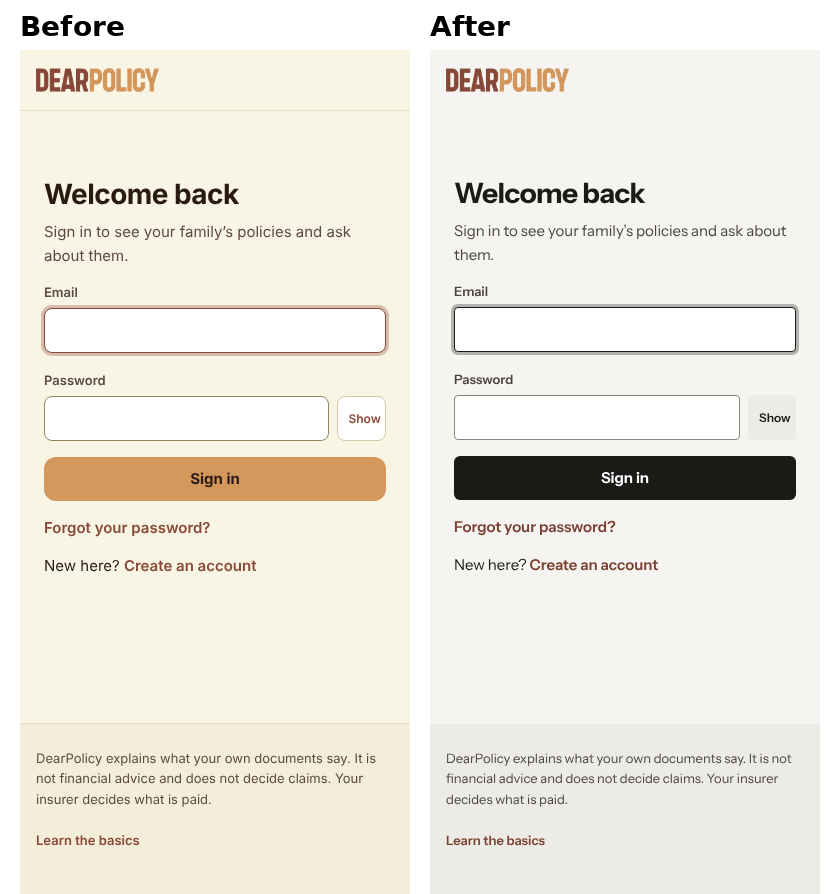
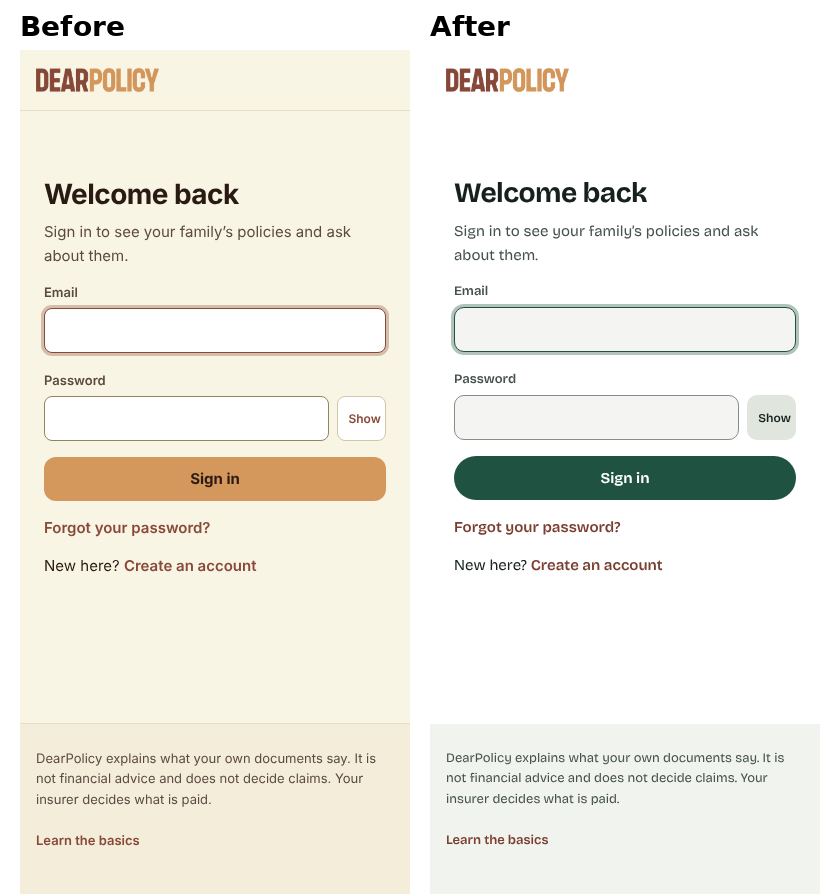
Switch the restyle to family colours (DC's choice) with Bricolage Grotesque
White page, soft grey cards with large radii, pill buttons, a top menu bar
on computers, and one identity colour per family member (data-person by
household order; never green, red, amber or slate, which stay status).
Status roles and contrast unchanged; brand tokens test passes. Look only.

Claude-Session: https://claude.ai/code/session_01JsrpoynzY3PNzgXCi8nV7J

diff --git a/app/globals.css b/app/globals.css
@@ -17,38 +17,38 @@
    ========================================================================== */
 :root {
   color-scheme: light;
-  --bg: #f5f4f0;              /* brand off-white, from the logo file */
-  --bg-2: #ecebe5;            /* sidebar / recessed panels */
-  --surface: #ffffff;         /* cards, rows, inputs */
-  --surface-2: #f3f2ee;       /* quiet in-card blocks */
-  --ink: #1c1a17;
-  --ink-2: #4a463f;
-  --muted: #625e56;           /* 5.6:1 on --bg */
-  --line: #e4e1d9;
+  --bg: #ffffff;              /* brand off-white, from the logo file */
+  --bg-2: #f1f3ef;            /* sidebar / recessed panels */
+  --surface: #f4f5f2;         /* cards, rows, inputs */
+  --surface-2: #eceee9;       /* quiet in-card blocks */
+  --ink: #16211c;
+  --ink-2: #45514b;
+  --muted: #58625c;           /* 5.6:1 on --bg */
+  --line: #e3e6e1;
   --edge: transparent;     /* card edges: surfaces are told apart by tone, not lines */
-  --line-strong: #d2cec4;
-  --input-line: #8a857a;      /* 3.4:1 on --bg */
+  --line-strong: #cfd4cd;
+  --input-line: #858e88;      /* 3.4:1 on --bg */
 
-  --brand: #1c1a17;
+  --brand: #1f5240;
   --brand-ink: #7a3f30;       /* brand as text, 6.3:1 on --bg */
-  --brand-tint: #ecebe5;
-  --brand-tint-2: #dfdcd3;
+  --brand-tint: #ebeee9;
+  --brand-tint-2: #e0e5de;
   --on-brand: #ffffff;        /* text on a --brand fill, 6.9:1 */
   --logo-plate: #f9f5e4;      /* the logo's own ground, kept behind it in dark */
 
-  --accent: #1c1a17;
-  --accent-hover: #3a3631;
-  --accent-active: #000000;
+  --accent: #1f5240;
+  --accent-hover: #18443a;
+  --accent-active: #12362e;
   --accent-ink: #ffffff;      /* text on an --accent fill, 6.7:1 */
-  --money: #1c1a17;           /* accent as text, 6.3:1 on --bg */
-  --accent-tint: #efede7;
+  --money: #16211c;           /* accent as text, 6.3:1 on --bg */
+  --accent-tint: #ebeee9;
 
   --good: #2f7a4f;
   --good-text: #276b44;
   --good-tint: #e4f1e8;
   --good-line: #b9d8c4;
 
-  --warn: #b98a1c;
+  --warn: #a67a12;
   --warn-text: #7a5600;
   --warn-tint: #fff3cf;
   --warn-line: #e8cf7a;
@@ -66,37 +66,50 @@
   --info-tint: var(--surface-2);
   --info-line: var(--line-strong);
 
-  --scrim: rgba(20, 18, 16, .28);
+  --scrim: rgba(14, 22, 18, .28);
 
-  --shadow-float: 0 4px 12px rgba(28, 26, 23, .10), 0 1px 2px rgba(28, 26, 23, .06);
-  --focus: 0 0 0 3px rgba(28, 26, 23, .30);
+  --shadow-float: 0 4px 12px rgba(22, 33, 28, .10), 0 1px 2px rgba(22, 33, 28, .06);
+  --focus: 0 0 0 3px rgba(31, 82, 64, .35);
 
-  --r-sm: 4px; --r-md: 6px; --r-lg: 8px;
+  --r-sm: 10px; --r-md: 14px; --r-lg: 20px;
   --fs-xs: 12px; --fs-sm: 13px; --fs-md: 15px; --fs-lg: 17px; --fs-xl: 22px; --fs-2xl: 28px; --fs-3xl: 36px;
   --t-hover: 120ms; --t-state: 240ms; --t-move: 340ms; --ease: cubic-bezier(.2, .7, .2, 1);
   --nav-h: 60px;
   --font: var(--font-face), -apple-system, BlinkMacSystemFont, "Segoe UI", Roboto, system-ui, "PingFang SC", "Hiragino Sans GB", "Microsoft YaHei", "Noto Sans CJK SC", "Noto Sans SC", sans-serif;
+
+  /* Family members: one identity hue each, by their place in the household.
+     Never green, red, amber or slate: those colours are status. */
+  --person-1: #0d3e75; --person-1-tint: #e3eefa;   /* blue */
+  --person-2: #6a1f63; --person-2-tint: #f6e6f3;   /* plum */
+  --person-3: #0b5560; --person-3-tint: #ddf1f2;   /* teal */
+  --person-4: #3a3590; --person-4-tint: #e9e8fb;   /* indigo */
+
 }
 :root[data-theme="dark"] {
     color-scheme: dark;
-    --bg: #161513; --bg-2: #121110; --surface: #201e1b; --surface-2: #262420;
-    --ink: #f1efe9; --ink-2: #cfcac0; --muted: #a39e94;
-    --line: #302d29; --line-strong: #3d3a35; --input-line: #858076;
-    --brand-ink: #e0a898; --brand-tint: #2a2824; --brand-tint-2: #34312c;
-    --money: #f1efe9; --accent-tint: #2a2824;
+    --bg: #121614; --bg-2: #0e1210; --surface: #1b211e; --surface-2: #222924;
+    --ink: #eef2ee; --ink-2: #c4ccc6; --muted: #9aa59e;
+    --line: #2b332e; --line-strong: #38423c; --input-line: #7f8a83;
+    --brand-ink: #e0a898; --brand-tint: #232b26; --brand-tint-2: #2c3630;
+    --money: #eef2ee; --accent-tint: #232b26;
     --good: #7fc49a; --good-text: #8fd0a8; --good-tint: #1f2f26; --good-line: #33503f;
     --warn: #e8b85a; --warn-text: #ecc46e; --warn-tint: #332b18; --warn-line: #5a4a24;
     --critical: #f08b7d; --critical-tint: #3a211e; --critical-line: #5c332d;
     --unresolved: #93a7bb; --unresolved-text: #b7c7d7; --unresolved-tint: #1f262d; --unresolved-line: #6a7d90;
     --scrim: rgba(0, 0, 0, .5);
     --shadow-float: 0 4px 14px rgba(0, 0, 0, .45), 0 1px 2px rgba(0, 0, 0, .3);
-    --focus: 0 0 0 3px rgba(241, 239, 233, .40);
-    --brand: #f1efe9;
-    --on-brand: #161513;
-    --accent: #f1efe9;
-    --accent-hover: #ffffff;
-    --accent-active: #d9d6cf;
-    --accent-ink: #161513;
+    --focus: 0 0 0 3px rgba(143, 208, 176, .45);
+    --brand: #8fd0b0;
+    --on-brand: #0e1210;
+    --accent: #8fd0b0;
+    --accent-hover: #a6dcc1;
+    --accent-active: #7cc2a0;
+    --accent-ink: #0e1210;
+    --person-1: #a9c9f0; --person-1-tint: #182638;
+    --person-2: #e3a9da; --person-2-tint: #321a2f;
+    --person-3: #8fd3da; --person-3-tint: #11292c;
+    --person-4: #bcb8f3; --person-4-tint: #221f3d;
+
 }
 :root[data-theme="dark"] .brand-logo, :root[data-theme="dark"] .big-mark { background: var(--logo-plate); padding: 6px 10px; border-radius: var(--r-sm); }
 
@@ -172,16 +185,16 @@ table { font-variant-numeric: tabular-nums; }
 /* --------------------------------------------------------------------------
    Controls
    -------------------------------------------------------------------------- */
-.button { border: 1px solid transparent; border-radius: var(--r-md); padding: 10px 16px; font-weight: 650; font-size: var(--fs-md); display: inline-flex; align-items: center; justify-content: center; gap: 8px; min-height: 44px; transition: background var(--t-hover) var(--ease), border-color var(--t-hover) var(--ease); }
+.button { border: 1px solid transparent; border-radius: 999px; padding: 10px 16px; font-weight: 650; font-size: var(--fs-md); display: inline-flex; align-items: center; justify-content: center; gap: 8px; min-height: 44px; transition: background var(--t-hover) var(--ease), border-color var(--t-hover) var(--ease); }
 .button.primary { background: var(--accent); color: var(--accent-ink); }
 .button.primary:hover { background: var(--accent-hover); }
 .button.primary:active { background: var(--accent-active); }
-.button.secondary { background: var(--bg-2); color: var(--ink); }
+.button.secondary { background: var(--brand-tint); color: var(--ink); }
 .button.secondary:hover { background: var(--brand-tint-2); }
 .button.compact { padding: 8px 14px; min-height: 40px; white-space: nowrap; }
 .button:disabled { opacity: .5; cursor: not-allowed; }
-.mini-button { border: 1px solid transparent; background: var(--bg-2); color: var(--ink); border-radius: var(--r-sm); padding: 6px 10px; min-height: 32px; font-size: var(--fs-xs); font-weight: 600; transition: border-color var(--t-hover) var(--ease), background var(--t-hover) var(--ease); }
-.mini-button:hover { background: var(--brand-tint-2); }
+.mini-button { border: 1px solid transparent; background: var(--brand-tint-2); color: var(--ink); border-radius: var(--r-sm); padding: 6px 10px; min-height: 32px; font-size: var(--fs-xs); font-weight: 600; transition: border-color var(--t-hover) var(--ease), background var(--t-hover) var(--ease); }
+.mini-button:hover { background: var(--line-strong); }
 a.mini-button { display: inline-flex; align-items: center; text-decoration: none; }
 .mini-button:disabled { opacity: .5; cursor: default; }
 .mini-button.danger { color: var(--critical); }
@@ -227,11 +240,11 @@ a.mini-button { display: inline-flex; align-items: center; text-decoration: none
 .member-strip-title strong { font-size: var(--fs-sm); }
 .member-strip-title span { color: var(--muted); font-size: var(--fs-xs); }
 .member-pills { display: flex; gap: 8px; overflow-x: auto; padding: 2px; }
-.member-pill { white-space: nowrap; border: 1px solid transparent; background: var(--bg-2); border-radius: var(--r-md); padding: 8px 12px; min-height: 44px; display: flex; align-items: center; gap: 8px; color: var(--ink); transition: border-color var(--t-hover) var(--ease), background var(--t-hover) var(--ease); }
+.member-pill { white-space: nowrap; border: 1px solid transparent; background: var(--surface-2); border-radius: var(--r-md); padding: 8px 12px; min-height: 44px; display: flex; align-items: center; gap: 8px; color: var(--ink); transition: border-color var(--t-hover) var(--ease), background var(--t-hover) var(--ease); }
 .member-pill:hover { background: var(--brand-tint-2); }
-.member-pill.active { border-color: var(--brand); background: var(--surface); }
+.member-pill.active { border-color: var(--p, var(--brand)); background: var(--p-tint, var(--surface-2)); color: var(--p, var(--ink)); }
 .member-pill.add { color: var(--brand-ink); font-weight: 650; }
-.member-dot { width: 28px; height: 28px; display: grid; place-items: center; border-radius: 50%; background: var(--brand-tint); color: var(--brand-ink); font-weight: 650; font-size: var(--fs-xs); }
+.member-dot { width: 28px; height: 28px; display: grid; place-items: center; border-radius: 50%; background: var(--p, var(--brand-tint)); color: var(--on-p, var(--brand-ink)); font-weight: 650; font-size: var(--fs-xs); }
 .member-pill span:last-child { display: grid; text-align: left; }
 .member-pill b { font-size: var(--fs-sm); }
 .member-pill small { font-size: var(--fs-xs); color: var(--muted); text-transform: capitalize; }
@@ -245,7 +258,7 @@ a.mini-button { display: inline-flex; align-items: center; text-decoration: none
 .family-grid { display: grid; grid-template-columns: repeat(2, minmax(0, 1fr)); gap: 12px; }
 .family-card { background: var(--surface); border: 1px solid var(--edge); border-radius: var(--r-lg); padding: 16px; display: flex; align-items: center; gap: 14px; transition: border-color var(--t-hover) var(--ease); }
 .family-card:hover { border-color: var(--brand-ink); }
-.avatar { width: 44px; height: 44px; border-radius: 50%; background: var(--brand-tint); color: var(--brand-ink); display: grid; place-items: center; font-weight: 650; font-size: var(--fs-lg); flex: none; }
+.avatar { width: 44px; height: 44px; border-radius: 50%; background: var(--p, var(--brand-tint)); color: var(--on-p, var(--brand-ink)); display: grid; place-items: center; font-weight: 650; font-size: var(--fs-lg); flex: none; }
 .avatar.small { width: 36px; height: 36px; font-size: var(--fs-md); }
 .family-copy { display: grid; gap: 2px; }
 .family-copy strong { font-size: var(--fs-md); }
@@ -482,7 +495,7 @@ a.mini-button { display: inline-flex; align-items: center; text-decoration: none
 .auto-context { width: 260px; border: 1px solid var(--edge); background: var(--surface); border-radius: var(--r-md); padding: 10px 12px; display: grid; gap: 3px; }
 .auto-context strong { font-size: var(--fs-xs); color: var(--brand-ink); }
 .auto-context span { font-size: var(--fs-xs); line-height: 1.4; color: var(--muted); }
-.chat-window { margin-top: 20px; min-height: 420px; background: var(--surface); border: 1px solid var(--edge); border-radius: var(--r-lg); padding: 24px; display: grid; align-content: start; gap: 18px; }
+.chat-window { margin-top: 20px; min-height: 420px; background: transparent; border: 1px solid var(--edge); border-radius: var(--r-lg); padding: 8px 0 24px; display: grid; align-content: start; gap: 18px; }
 .chat-empty { max-width: 640px; margin: 32px auto 16px; text-align: center; display: grid; justify-items: center; gap: 12px; }
 .big-mark { height: 30px; width: auto; }
 .chat-empty > p { color: var(--ink-2); font-size: var(--fs-md); line-height: 1.55; margin: 0; }
@@ -493,7 +506,7 @@ a.mini-button { display: inline-flex; align-items: center; text-decoration: none
 .message.user { justify-self: end; max-width: 70%; }
 .message-label { font-size: var(--fs-xs); font-weight: 650; color: var(--muted); }
 .message.user .message-label { text-align: right; }
-.message-body { background: var(--surface-2); border: 1px solid var(--edge); border-radius: var(--r-lg); padding: 14px 16px; font-size: var(--fs-md); line-height: 1.6; overflow-wrap: anywhere; }
+.message-body { background: var(--surface); border: 1px solid var(--edge); border-radius: var(--r-lg); padding: 14px 16px; font-size: var(--fs-md); line-height: 1.6; overflow-wrap: anywhere; }
 .message.user .message-body { background: var(--brand); color: var(--on-brand); border-color: var(--brand); }
 .message-body p { margin-bottom: 10px; }
 .message-body p:last-child { margin-bottom: 0; }
@@ -1579,3 +1592,30 @@ h1 .title-icon .icon { width: 24px; height: 24px; }
 /* Delete is quiet until it is about to act: muted, at the end of the row; red on hover, focus and Confirm. */
 .document-meta .mini-button.danger { margin-left: auto; color: var(--muted); }
 .document-meta .mini-button.danger:hover, .document-meta .mini-button.danger:focus-visible, .document-meta .mini-button.danger.armed { border-color: var(--critical-line); color: var(--critical); }
+
+/* --------------------------------------------------------------------------
+   Family colours (docs/brand.md "Look"). data-person is a member's place in
+   the household (0-3, repeating); it sets --p (ink), --p-tint and --on-p.
+   -------------------------------------------------------------------------- */
+[data-person="0"] { --p: var(--person-1); --p-tint: var(--person-1-tint); }
+[data-person="1"] { --p: var(--person-2); --p-tint: var(--person-2-tint); }
+[data-person="2"] { --p: var(--person-3); --p-tint: var(--person-3-tint); }
+[data-person="3"] { --p: var(--person-4); --p-tint: var(--person-4-tint); }
+[data-person] { --on-p: var(--bg); }
+.profile-card[data-person] { background: var(--p-tint); }
+.profile-card[data-person] .profile-summary strong { color: var(--p); }
+
+/* Computer: the menu is a top bar; phones keep the bottom bar. */
+@media (min-width: 901px) {
+  .app-shell { display: block; }
+  .sidebar { position: sticky; top: 0; z-index: 40; height: auto; overflow: visible; flex-direction: row; align-items: center; gap: 24px; padding: 14px clamp(24px, 3vw, 48px); background: var(--bg); }
+  .brand { padding: 0; }
+  .nav { display: flex; gap: 2px; }
+  .nav .eyebrow { display: none; }
+  .nav-item { min-height: 40px; padding: 8px 14px; border-radius: 999px; font-weight: 600; white-space: nowrap; }
+  .nav-item.active { background: var(--bg-2); }
+  .nav-icon { display: none; }
+  .sidebar-footer { margin-top: 0; margin-left: auto; padding: 0; display: flex; align-items: center; gap: 12px; }
+  .sidebar-footer [data-tip]::after { left: auto; right: 0; top: calc(100% + 8px); bottom: auto; transform: none; }
+}
+@media (min-width: 901px) and (max-width: 1240px) { .sidebar .privacy-pill { display: none; } .nav-item { padding: 8px 10px; } }

diff --git a/app/page.tsx b/app/page.tsx
@@ -83,7 +83,7 @@ export default function DashboardPage(){
   :<header className="page-header portfolio-hero"><div><h1>Know what your family has. Know what to do next.</h1><p className="lead">Upload your family&rsquo;s insurance documents. DearPolicy shows who is covered for what, and answers your questions with the page each answer comes from.</p></div><div className="hero-actions"><Link href="/policies" className="button secondary"><Icon name="upload"/>Upload documents</Link><Link href="/chat" className="button primary"><Icon name="ask"/>Ask DearPolicy</Link></div></header>}
   {returning&&<HomeAttention memberId={active?.id} todo={data?.reminders?.length??0}/>}
   {data?.error&&<div className="alert error" role="alert"><strong>DearPolicy couldn&rsquo;t load your family&rsquo;s cover just now.</strong><small>Your documents are safe. Please refresh the page in a moment.</small></div>}
-  <section className="member-strip"><div className="member-strip-title">{data?.family?.length?<><strong><Icon name="family"/> Viewing</strong></>:<><strong>Your family</strong><span>Add the people your policies cover</span></>}</div><div className="member-pills">{data?.family?.map(m=><button key={m.id} className={`member-pill ${m.id===(active?.id??activeId)?"active":""}`} onClick={()=>choose(m.id)}><span className="member-dot">{m.display_name.slice(0,1).toUpperCase()}</span><span><b>{m.display_name}</b><small>{m.relationship}</small></span></button>)}<Link className="member-pill add" href="/family"><Icon name="plus"/> Add person</Link></div></section>
+  <section className="member-strip"><div className="member-strip-title">{data?.family?.length?<><strong><Icon name="family"/> Viewing</strong></>:<><strong>Your family</strong><span>Add the people your policies cover</span></>}</div><div className="member-pills">{data?.family?.map((m,i)=><button key={m.id} data-person={i%4} className={`member-pill ${m.id===(active?.id??activeId)?"active":""}`} onClick={()=>choose(m.id)}><span className="member-dot">{m.display_name.slice(0,1).toUpperCase()}</span><span><b>{m.display_name}</b><small>{m.relationship}</small></span></button>)}<Link className="member-pill add" href="/family"><Icon name="plus"/> Add person</Link></div></section>
   {!emptyPortfolio&&<>
   {!!data?.premiums?.items?.length&&<section className="summary-row"><div className="summary-card premium-feature"><div className="summary-label"><Icon name="payments"/>Current insurance cost</div>{data?.premiums?.totals?.length?<><strong>{perCurrency(data.premiums.totals,"monthly")}<small>/month</small></strong><div className="summary-sub">≈ {perCurrency(data.premiums.totals,"annual")} per year {premiumSourceCaption(data.premiums.items.map(i=>i.source))}.</div>{data.premiums.note&&<div className="summary-sub" data-testid="home-premium-note">{data.premiums.note}</div>}</>:data?.premiums?.items?.length?<><strong className="summary-unknown">Total not shown</strong><div className="summary-sub">The premiums on file don’t say which currency they are in. Payments lists each one.</div></>:<><strong className="summary-unknown">Not known yet</strong><div className="summary-sub">Add a premium notice or receipt to see what your cover costs.</div></>}<Link href="/records" className="text-link"><Icon name="receipt"/>Payments & receipts</Link></div></section>}
   </>}

diff --git a/app/layout.tsx b/app/layout.tsx
@@ -1,12 +1,12 @@
 import type { Metadata, Viewport } from "next";
 import "./globals.css";
-import { Instrument_Sans } from "next/font/google";
+import { Bricolage_Grotesque } from "next/font/google";
 import { headers } from "next/headers";
 import AppShell from "@/components/AppShell";
 import { SITE_DESCRIPTION, siteUrl } from "@/lib/public-site/site";
 
 // The one typeface (docs/brand.md). Served from the site itself; the stack in --font is the fallback.
-const instrument = Instrument_Sans({ subsets: ["latin"], display: "swap" });
+const face = Bricolage_Grotesque({ subsets: ["latin"], display: "swap" });
 
 export const metadata: Metadata = {
   // The page title is set per page by components/AppShell.tsx (signed in) or by each public page's own metadata.
@@ -16,8 +16,8 @@ export const metadata: Metadata = {
 
 export const viewport: Viewport = {
   themeColor: [
-    { media: "(prefers-color-scheme: light)", color: "#f5f4f0" },
-    { media: "(prefers-color-scheme: dark)", color: "#161513" },
+    { media: "(prefers-color-scheme: light)", color: "#ffffff" },
+    { media: "(prefers-color-scheme: dark)", color: "#121614" },
   ],
   viewportFit: "cover",
   // Android: the on-screen keyboard shrinks the layout, so the chat box
@@ -29,7 +29,7 @@ export default async function RootLayout({ children }: Readonly<{ children: Reac
   // middleware.ts sets this on every public page ("0" = no session); anywhere else it is absent and the app menu shows.
   const signedIn = (await headers()).get("x-dearpolicy-signed-in") !== "0";
   return (
-    <html lang="en" data-theme="light" style={{ "--font-face": instrument.style.fontFamily } as React.CSSProperties} suppressHydrationWarning>
+    <html lang="en" data-theme="light" style={{ "--font-face": face.style.fontFamily } as React.CSSProperties} suppressHydrationWarning>
       <head>
         <script dangerouslySetInnerHTML={{ __html: `try{var t=localStorage.getItem("dearpolicy-theme");if(t==="dark")document.documentElement.setAttribute("data-theme","dark")}catch(e){}` }} />
       </head>

diff --git a/app/family/page.tsx b/app/family/page.tsx
@@ -119,8 +119,8 @@ export default function FamilyPage() {
 
       <section className="section">
         <div className="profile-list">
-          {family.map((member) => (
-            <div className="profile-card" key={member.id} data-testid="profile-card">
+          {family.map((member, i) => (
+            <div className="profile-card" key={member.id} data-testid="profile-card" data-person={i % 4}>
               {/* At a glance: who, how they are linked to documents, and what they are covered for. */}
               <div className="profile-summary">
                 <div className="avatar profile-avatar">{(baseline[member.id]?.display_name ?? member.display_name).slice(0,1).toUpperCase()}</div>

diff --git a/docs/brand.md b/docs/brand.md
@@ -46,28 +46,36 @@ Rules of thumb:
 
 | Token | Light | Dark |
 | --- | --- | --- |
-| `--bg` page | `#f5f4f0` (stone, low chroma) | `#161513` |
-| `--surface` card | `#ffffff` | `#201e1b` |
-| `--ink` text | `#1c1a17` | `#f1efe9` |
-| `--muted` | `#625e56` | `#a39e94` |
-| `--brand` (fills: your chat bubble, active pill) | `#1c1a17` | `#f1efe9` |
+| `--bg` page | `#ffffff` | `#121614` |
+| `--surface` card | `#f4f5f2` (soft grey fill) | `#1b211e` |
+| `--surface-2` block inside a card | `#eceee9` | `#222924` |
+| `--ink` text | `#16211c` | `#eef2ee` |
+| `--muted` | `#58625c` | `#9aa59e` |
+| `--brand` (fills: your chat bubble, active filter) | `#1f5240` | `#8fd0b0` |
 | `--brand-ink` (links) | `#7a3f30` (the logo's brown) | `#e0a898` |
-| `--accent` (the one primary button) | `#1c1a17` | `#f1efe9` |
-| `--money` | `#1c1a17` (figures are told by weight and size, not hue) | `#f1efe9` |
+| `--accent` (the one primary button) | `#1f5240` | `#8fd0b0` |
+| `--money` | `#16211c` (figures are told by weight and size) | `#eef2ee` |
 | `--good-text` | `#276b44` | `#8fd0a8` |
 | `--unresolved-text` | `#3f5165` | `#b7c7d7` |
 | `--warn-text` | `#7a5600` | `#ecc46e` |
 | `--critical` | `#a3342a` | `#f08b7d` |
+| `--person-1..4` + `-tint` | blue, plum, teal, indigo | lighter inks, deep tints |
 
-### Look (15 Nov 2026, "paper and ink")
+### Look (15 Nov 2026, "family colours", DC's choice)
 
-The cream ground with brown and orange fills was the most common look of
-generated pages in 2025–26, so the chrome is now neutral: stone ground,
-near-black ink and buttons, colour kept for meaning (status) and for the
-logo. Surfaces are told apart by a tone step, not lines or shadows
-(`--edge` is transparent); tables and inputs keep their lines. No icon
-in a tinted square beside a heading, no small uppercase labels, small
-radii (4–8px).
+The old cream ground with brown and orange fills was the most common look
+of generated pages in 2025–26. Now: a white page, soft grey cards with
+large radii (10/14/20px), pill buttons, a top menu bar on computers (the
+bottom bar stays on phones), and **one colour per family member**.
+
+- A member's colour comes from their place in the household
+  (`data-person` 0–3, repeating) and is used only for identity: their
+  avatar, their pill on Home, their card on Account settings.
+- Person colours are never green, red, amber or slate, so status colours
+  keep their meaning. A status is never shown in a person's colour.
+- Surfaces are told apart by tone, not lines or shadows (`--edge` is
+  transparent); tables and inputs keep their lines. No icon in a tinted
+  square beside a heading, no small uppercase labels.
 
 Contrast is checked by the test, not by eye: text 4.5:1; dots, the
 unresolved dashed edge and input borders 3:1; in both themes. Decorative
@@ -75,8 +83,8 @@ card borders between siblings are not status cues and are not held to 3:1.
 
 ## Type
 
-One family, Instrument Sans, served from the site by `next/font` and set
-as `--font-face` on the page; the system UI stack in `--font` is the
+One family, Bricolage Grotesque, served from the site by `next/font` and
+set as `--font-face` on the page; the system UI stack in `--font` is the
 fallback, including for CJK names on documents.
 
 | Token | Size | Use |
@@ -97,7 +105,7 @@ Figures are tabular wherever amounts line up.
 - The wordmark is `public/dearpolicy-logo.png`: "DEAR" in brand brown,
   "POLICY" in accent orange. Use it as supplied: never recolour, stretch,
   outline or set it on a photo.
-- It sits on the light stone ground. In dark mode it keeps a cream
+- It sits on the white page. In dark mode it keeps a cream
   plate (`--logo-plate`) rather than being inverted.
 - Minimum height 24px on screen; keep clear space of at least the height
   of the "D" around it.
